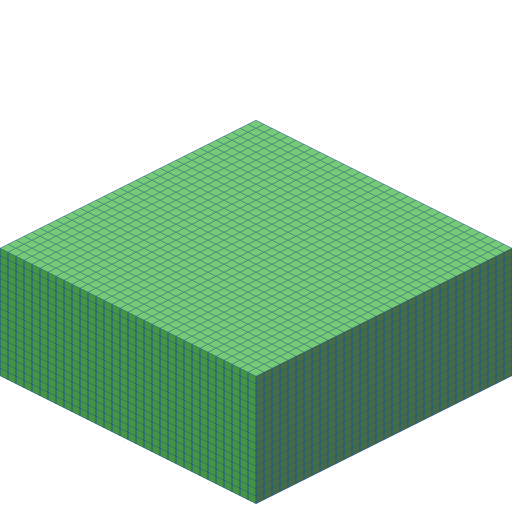
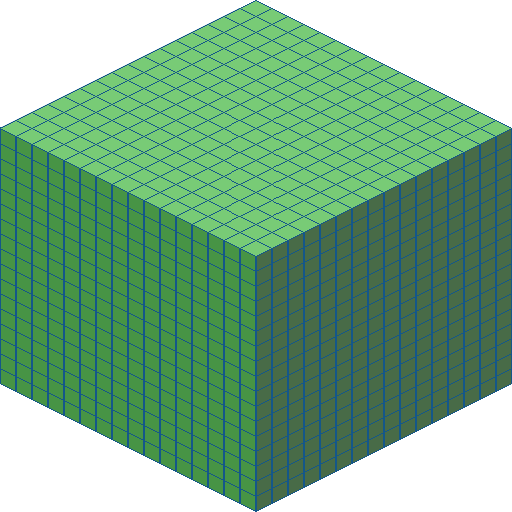
16 block images updated

diff --git a/WorldGenerator/World/Generator/Generator.cs b/WorldGenerator/World/Generator/Generator.cs
@@ -231,7 +231,7 @@ namespace Sean.WorldGenerator
                 }
             }
                 
-            GenerateChunkCells(chunk, generateQueue);
+            GenerateChunkCells(generateQueue);
 
             chunk.BuildHeightMap();
 
@@ -239,7 +239,7 @@ namespace Sean.WorldGenerator
             chunk.FinishedGeneration = true;
         }
 
-        private void GenerateChunkCells(Chunk chunk, UniqueQueue<Position> generateQueue)
+        private void GenerateChunkCells(UniqueQueue<Position> generateQueue)
         {
             while (generateQueue.Count > 0)
             {
@@ -272,6 +272,17 @@ namespace Sean.WorldGenerator
                     }
                 }
             }
+        }
+        public void GenerateSurroundingCells(int x, int y, int z)
+        {
+            var generateQueue = new UniqueQueue<Position>();
+            generateQueue.Enqueue (new Position (x+1, y, z));
+            generateQueue.Enqueue (new Position (x-1, y, z));
+            generateQueue.Enqueue (new Position (x, y+1, z));
+            generateQueue.Enqueue (new Position (x, y-1, z));
+            generateQueue.Enqueue (new Position (x, y, z+1));
+            generateQueue.Enqueue (new Position (x, y, z-1));
+            GenerateChunkCells (generateQueue);
         }
         private void ExpandSearchCheckBlock(int x,int y,int z, UniqueQueue<Position> generateQueue)
         {

diff --git a/OpenTkClient/GameRenderer.cs b/OpenTkClient/GameRenderer.cs
@@ -70,12 +70,12 @@ namespace OpenTkClient
             }
             else if (Global.CHUNK_SIZE == 16)
             {
-                largeTextures[(int)Block.BlockType.Rock] = LoadTexture("rock_32.png");
-                largeTextures[(int)Block.BlockType.Grass] = LoadTexture("grass_32.png");
-                largeTextures[(int)Block.BlockType.Dirt] = LoadTexture("grass_32.png");
-                largeTextures[(int)Block.BlockType.Ocean] = LoadTexture("water_32.png");
-                largeTextures[(int)Block.BlockType.Water1] = LoadTexture("water_32.png");
-                largeTextures[(int)BlockTypeCursor] = LoadTexture("cursor_32.png");
+                largeTextures[(int)Block.BlockType.Rock] = LoadTexture("rock_16.png");
+                largeTextures[(int)Block.BlockType.Grass] = LoadTexture("grass_16.png");
+                largeTextures[(int)Block.BlockType.Dirt] = LoadTexture("grass_16.png");
+                largeTextures[(int)Block.BlockType.Ocean] = LoadTexture("water_16.png");
+                largeTextures[(int)Block.BlockType.Water1] = LoadTexture("water_16.png");
+                largeTextures[(int)BlockTypeCursor] = LoadTexture("cursor_16.png");
             }
 
             renderer = new TextRenderer(Width, Height);

diff --git a/WorldGenerator/World/Map/Water.cs b/WorldGenerator/World/Map/Water.cs
@@ -61,7 +61,7 @@ namespace Sean.WorldGenerator
             if (_minPos == pos)
                 FindNextLowest();
         }
-        
+
         private void AddIfEmpty(int x,int y,int z)
         {
             if (!worldInstance.IsValidBlockLocation (x, y, z)) {
@@ -83,6 +83,21 @@ namespace Sean.WorldGenerator
                 var pos = new Position(x,y,z);
                 _emptyCoords.Add(pos);
                 CalcScore(pos);
+
+//                // Add solid block down form lower riverbed
+//                var blockBelow = worldInstance.GetBlock (x, y-1, z);
+//                if (blockBelow.IsSolid) {
+//                    if (blockBelow.IsWater) {
+//                        if (!Coords.Contains (new Position (x, y-1, z))) {
+//                            // Have reached another river or the ocean
+//                            Growing = false;
+//                        }
+//                        return;
+//                    }
+//                    pos = new Position(x,y-1,z);
+//                    _emptyCoords.Add(pos);
+//                    CalcScore(pos);
+//                }
             }
         }
         private void CalcScore(Position pos)

diff --git a/WorldGenerator/World.cs b/WorldGenerator/World.cs
@@ -197,10 +197,16 @@ namespace Sean.WorldGenerator
                 Log.WriteError("Setting Unknown block?");
 
             var chunk = localMap.Chunk(position);
+            //var replacedBlock = chunk.Blocks[position.X % Global.CHUNK_SIZE, position.Y, position.Z % Global.CHUNK_SIZE];
             chunk.Blocks[position.X % Global.CHUNK_SIZE, position.Y, position.Z % Global.CHUNK_SIZE] = block;
 
             if (chunk.FinishedGeneration)
             {
+                // TODO - move, tidy up, ???
+                if (block.IsTransparent) {
+                    generator.GenerateSurroundingCells (position.X, position.Y, position.Z);
+                }
+
                 FireWorldEvent(position, ItemAction.Add, block);
             }
         }

diff --git a/Shared/Block.cs b/Shared/Block.cs
@@ -164,10 +164,11 @@ namespace Sean.Shared
 		{
 			switch (type)
 			{
-				case BlockType.Air:
+                case BlockType.Air:
 				case BlockType.Leaves:
 				case BlockType.SnowLeaves:
 				case BlockType.Ocean:
+                case BlockType.Water1:
 				case BlockType.PrisonBars:
 				case BlockType.SteelDoorTop:
 					return true;

diff --git a/OpenTkClient/Server.cs b/OpenTkClient/Server.cs
@@ -55,7 +55,7 @@ namespace OpenTkClient
             }
             catch (Exception e)
             {
-                Console.WriteLine($"Server thread crashed - {e.Message}");
+               Console.WriteLine($"Server thread crashed - {e.Message}");
             }
         }
     }
